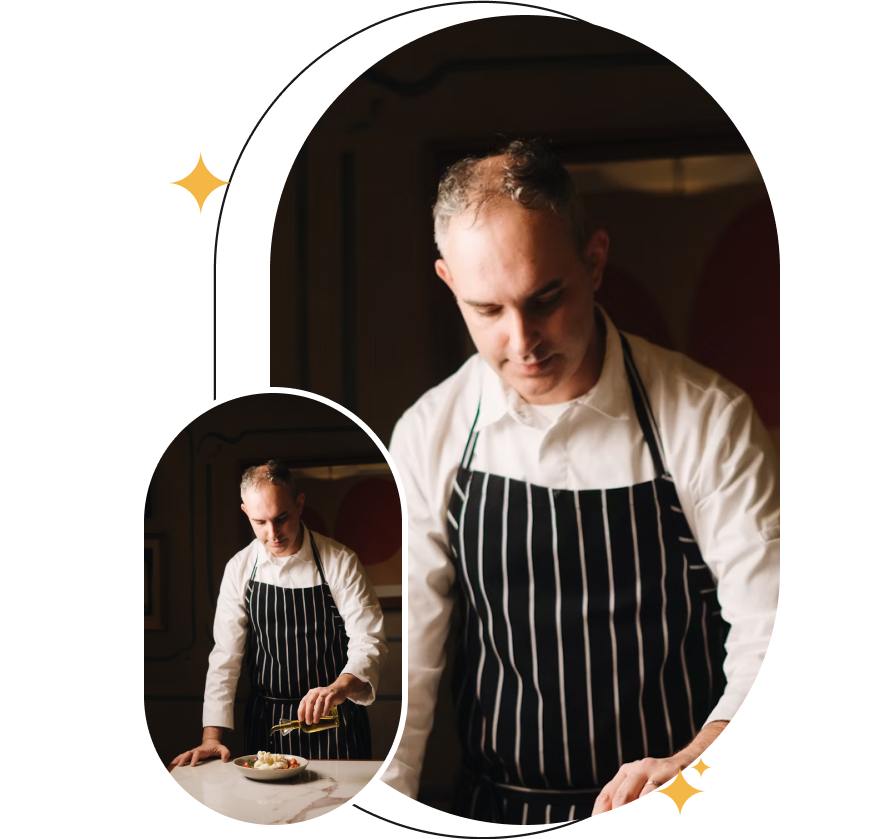
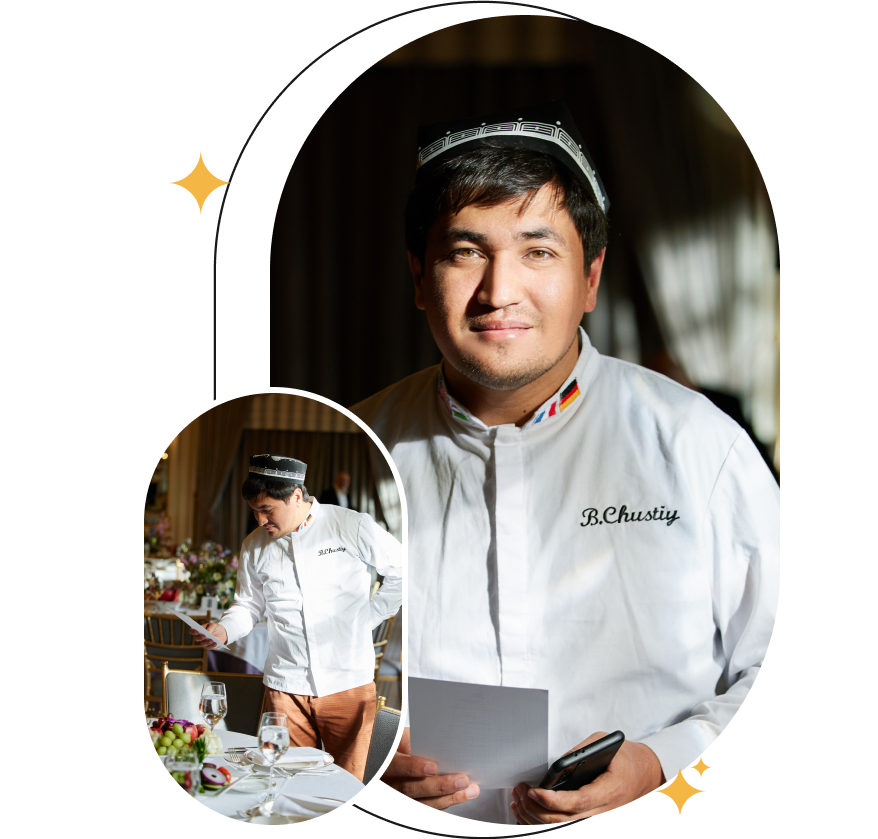
change images

diff --git a/src/features/projects/projects-info/index.tsx b/src/features/projects/projects-info/index.tsx
@@ -2,23 +2,28 @@ import { Box, Text } from "@mantine/core"
 import Image from "next/image"
 import React, { FC } from "react"
 
-import ImageOne from "@/shared/assets/images/image-about-1.png"
-
 import s from "./styles.module.scss"
 
 interface IProps {
   title: string
   description: string
+  image: any
 }
 
-export const ProjectsInfo: FC<IProps> = ({ description, title }) => {
+export const ProjectsInfo: FC<IProps> = ({ description, title, image }) => {
   return (
     <div className={s.sectionWrapper}>
       <Box>
         <Text className={"section-title"}>{title}</Text>
         <Text className={"section-subtitle"}>{description}</Text>
       </Box>
-      <Image src={ImageOne} alt={"image-chustiy"} className={s.image} />
+      <Image
+        src={image}
+        alt={"image-chustiy"}
+        className={s.image}
+        width={642}
+        height={428}
+      />
     </div>
   )
 }

diff --git a/src/pages/projects/recipes/index.page.tsx b/src/pages/projects/recipes/index.page.tsx
@@ -5,6 +5,7 @@ import { Contacts } from "@/widgets"
 
 import { ProjectsInfo, RecipesList } from "@/features/projects"
 
+import ImageOne from "@/shared/assets/images/image-chustiy-3.png"
 import { HeadBanner } from "@/shared/ui"
 
 const RecipesPage = () => {
@@ -21,6 +22,7 @@ const RecipesPage = () => {
           }
         />
         <ProjectsInfo
+          image={ImageOne}
           title={"Retseptlar"}
           description={
             "Men — oshpazlikka oshno bo‘lgan, har bir taomni qalbdan his qilib tayyorlaydigan shaxsman. O‘n yildan ortiq tajribam davomida turli oshxonalar bilan ishladim: milliy an’anaviy taomlardan tortib, zamonaviy fusion yo‘nalishlarigacha. Har bir mehmon uchun shaxsiy yondashuv va mukammal ta’m — mening ustuvor vazifamdir."

diff --git a/src/pages/projects/books/index.page.tsx b/src/pages/projects/books/index.page.tsx
@@ -5,6 +5,7 @@ import { Contacts } from "@/widgets"
 
 import { BooksList, ProjectsInfo } from "@/features/projects"
 
+import ImageOne from "@/shared/assets/images/image-chustiy-2.png"
 import { HeadBanner } from "@/shared/ui"
 
 const BooksPage = () => {
@@ -21,6 +22,7 @@ const BooksPage = () => {
           }
         />
         <ProjectsInfo
+          image={ImageOne}
           title={"Kitoblar"}
           description={
             "Men — oshpazlikka oshno bo‘lgan, har bir taomni qalbdan his qilib tayyorlaydigan shaxsman. O‘n yildan ortiq tajribam davomida turli oshxonalar bilan ishladim: milliy an’anaviy taomlardan tortib, zamonaviy fusion yo‘nalishlarigacha. Har bir mehmon uchun shaxsiy yondashuv va mukammal ta’m — mening ustuvor vazifamdir."

diff --git a/src/pages/projects/shops/index.page.tsx b/src/pages/projects/shops/index.page.tsx
@@ -7,6 +7,7 @@ import { ProjectsInfo } from "@/features/projects"
 
 import { LocationInfo } from "@/entities"
 
+import ImageOne from "@/shared/assets/images/image-about-1.png"
 import { HeadBanner } from "@/shared/ui"
 
 const ShopsPage = () => {
@@ -23,6 +24,7 @@ const ShopsPage = () => {
           }
         />
         <ProjectsInfo
+          image={ImageOne}
           title={"Do’konlar"}
           description={
             "Men — oshpazlikka oshno bo‘lgan, har bir taomni qalbdan his qilib tayyorlaydigan shaxsman. O‘n yildan ortiq tajribam davomida turli oshxonalar bilan ishladim: milliy an’anaviy taomlardan tortib, zamonaviy fusion yo‘nalishlarigacha. Har bir mehmon uchun shaxsiy yondashuv va mukammal ta’m — mening ustuvor vazifamdir."

diff --git a/src/features/main/main-gallery/index.tsx b/src/features/main/main-gallery/index.tsx
@@ -5,10 +5,10 @@ import { useRouter } from "next/router"
 import React from "react"
 
 import IconRight from "@/shared/assets/images/icons/icon-right.svg"
-import ImageFour from "@/shared/assets/images/image-four.png"
-import ImageOne from "@/shared/assets/images/image-one.png"
-import ImageThree from "@/shared/assets/images/image-three.png"
-import ImageTwo from "@/shared/assets/images/image-two.png"
+import ImageFour from "@/shared/assets/images/image-four.jpg"
+import ImageOne from "@/shared/assets/images/image-one.jpg"
+import ImageThree from "@/shared/assets/images/image-three.jpg"
+import ImageTwo from "@/shared/assets/images/image-two.jpg"
 
 import s from "./styles.module.scss"
 
